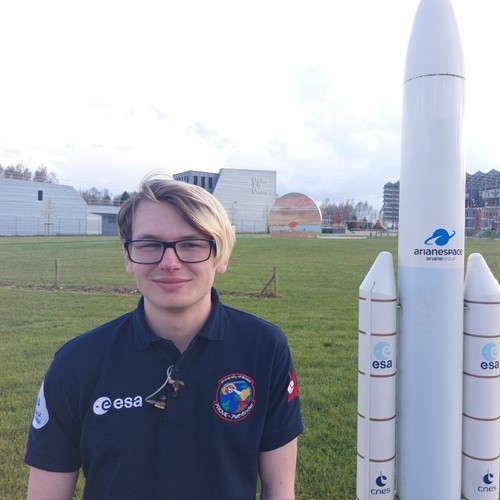
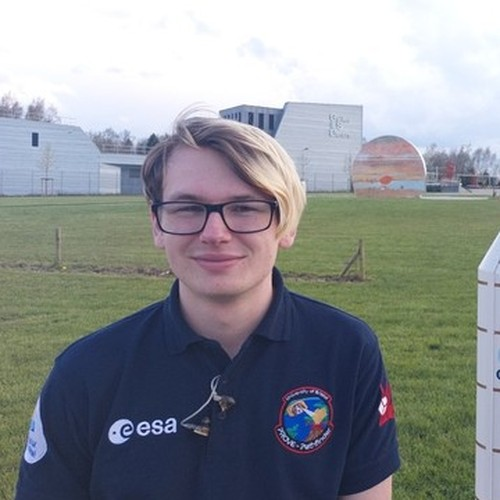
Fix the deck's background-image paths, redraw both diagrams, add room links
The real fault behind the missing images: Marp writes its own background
images as url(&quot;...&quot;), which the build's path rewrite did not match,
so the general-arrangement drawing and the servo diagram 404'd on the site.
The rewrite now handles escaped quotes.

Photo rows are CSS backgrounds with explicit heights rather than <img>, which
also renders reliably inside Marp's foreignObject.

- Real MazeMap share links, kept in teaching/rooms.md for other units; the
  Hangar is in the Queen's Building too, and 1.40 is the PLT
- Bench diagram redrawn: no overlapping labels, telemetry reaches the laptop,
  key clear of the caption
- Servo block diagram replaced with a cutaway: board, motor, gears, pot, horn
- S10 says avionics depends on integration rather than being only integration;
  S11 notes the list is not exhaustive; S13 points at SharePoint
- Getting ready page drops the same negative phrasing and gains the room table

diff --git a/slides/intro/index.md b/slides/intro/index.md
@@ -12,8 +12,9 @@ author: "Dr. Steve Bullock"
 <style>
 /* Five-across team row: square portraits, name, then roles. */
 .people { display: flex; gap: 1.1em; align-items: flex-start; margin-top: 0.4em; }
-.people p { flex: 1; text-align: center; font-size: 0.74em; line-height: 1.3; margin: 0; }
-.people img { width: 100%; aspect-ratio: 1 / 1; object-fit: cover; border-radius: 6px; margin-bottom: 0.3em; }
+.people > div { flex: 1; text-align: center; font-size: 0.74em; line-height: 1.3; }
+.people .pic { width: 100%; aspect-ratio: 1 / 1; background-size: cover; background-position: center;
+               border-radius: 6px; margin-bottom: 0.35em; }
 .people strong { display: block; }
 
 /* Compact table, for room lists and schedules that would otherwise overflow. */
@@ -22,10 +23,13 @@ author: "Dr. Steve Bullock"
 
 /* A row of photographs with captions underneath. */
 .shots { display: flex; gap: 0.9em; align-items: flex-start; }
-.shots p { flex: 1; margin: 0; text-align: center; font-size: 0.7em; line-height: 1.3; }
-.shots img { width: 100%; max-height: 300px; object-fit: cover; border-radius: 4px; margin-bottom: 0.25em; }
-.shots.small img { max-height: 170px; object-fit: contain; }
-.shots.small p { font-size: 0.64em; }
+.shots > div { flex: 1; text-align: center; font-size: 0.7em; line-height: 1.3; }
+.shots .pic { width: 100%; height: 270px; background-size: cover; background-position: center;
+              border-radius: 4px; margin-bottom: 0.3em; }
+.shots.small .pic { height: 165px; background-size: contain; background-repeat: no-repeat; }
+.shots.small > div { font-size: 0.64em; }
+.strip { display: flex; gap: 0.8em; margin-top: 0.6em; }
+.strip .pic { flex: 1; height: 190px; background-size: cover; background-position: center; border-radius: 4px; }
 
 /* Video: live embed on screen, a linked still in the PDF. */
 @media print { .only-html { display: none !important; } }
@@ -67,33 +71,42 @@ What it does in your aircraft · what the requirements ask for · integration ·
 **Part 2 — Mechanisms**
 What has to move · the design task · where it meets avionics · the sessions
 
+<div class="strip">
+<div class="pic" style="background-image:url('../../docs/assets/intro/tunnel-students.jpg')"></div>
+<div class="pic" style="background-image:url('../../docs/assets/intro/servos-installed.jpg')"></div>
+<div class="pic" style="background-image:url('../../docs/assets/intro/servo-micro.jpg')"></div>
+</div>
+
 ---
 
 # Who's who
 
 <div class="people">
-
-![](../../docs/assets/people/bullock.jpg)
-**Steve Bullock**
+<div>
+<div class="pic" style="background-image:url('../../docs/assets/people/bullock.jpg')"></div>
+<strong>Steve Bullock</strong>
+Avionics<br>Mechanisms
+</div>
+<div>
+<div class="pic" style="background-image:url('../../docs/assets/people/burns.jpg')"></div>
+<strong>George Burns</strong>
 Avionics
-Mechanisms
-
-![](../../docs/assets/people/burns.jpg)
-**George Burns**
+</div>
+<div>
+<div class="pic" style="background-image:url('../../docs/assets/people/ward.jpg')"></div>
+<strong>Tim Ward</strong>
 Avionics
-
-![](../../docs/assets/people/ward.jpg)
-**Tim Ward**
-Avionics
-
-![](../../docs/assets/people/graham.jpg)
-**Mark Graham**
+</div>
+<div>
+<div class="pic" style="background-image:url('../../docs/assets/people/graham.jpg')"></div>
+<strong>Mark Graham</strong>
 Mechanisms
-
-![](../../docs/assets/people/maes.jpg)
-**Vince Maes**
+</div>
+<div>
+<div class="pic" style="background-image:url('../../docs/assets/people/maes.jpg')"></div>
+<strong>Vince Maes</strong>
 Mechanisms
-
+</div>
 </div>
 
 <!--
@@ -113,20 +126,19 @@ Aerial Robotics project; mention him if useful.
 
 | Space | Room | What for |
 |---|---|---|
-| **Stack Room** | [QB F.05](https://use.mazemap.com/#v=1&config=UoBCampuses&view_access_token=fcab572c2d2a4e479089433ce060d24b&search=F.05) | Avionics workshops, Friday mornings |
-| **Avionics lab** | [QB M.003](https://use.mazemap.com/#v=1&config=UoBCampuses&view_access_token=fcab572c2d2a4e479089433ce060d24b&search=M.003) | Kit issue and return, supervised tool use |
-| **Design Suite** | [QB 1.59](https://use.mazemap.com/#v=1&config=UoBCampuses&view_access_token=fcab572c2d2a4e479089433ce060d24b&search=1.59) | Mechanisms sessions, Thursdays |
-| **The Hangar** | [L.080](https://use.mazemap.com/#v=1&config=UoBCampuses&view_access_token=fcab572c2d2a4e479089433ce060d24b&search=L.080) | Main lab, open access |
-| **This room** | [1.40 Pugsley](https://use.mazemap.com/#v=1&config=UoBCampuses&view_access_token=fcab572c2d2a4e479089433ce060d24b&search=1.40%20Pugsley) | Today |
+| **Stack Room** | [QB F.05](https://link.mazemap.com/gLLBFne1) | Avionics workshops, Friday mornings |
+| **Avionics lab** | [QB M.003](https://link.mazemap.com/uXsLo5fv) | Kit issue and return, supervised tool use |
+| **Design Suite** | [QB 1.59](https://link.mazemap.com/o5Xo8oWt) | Mechanisms sessions, Thursdays |
+| **The Hangar** | [QB L.080](https://link.mazemap.com/2QMWAiXk) | Main lab, open access |
+| **Here** | [PLT](https://link.mazemap.com/KkMVJJVS) | Pugsley Lecture Theatre |
 
 </div>
 
-Room numbers link to the map. All in the Queen's Building except the Hangar.
+Room numbers link to the map. All of these are in the Queen's Building.
 
 <!--
-Room links open a MazeMap search for that room number, using the campus
-collection link with its access token - the same link Steve uses, which finds
-rooms the public API does not.
+MazeMap share links, also kept in teaching/rooms.md so other units can reuse
+them. The Hangar (L.080) is in the Queen's Building too.
 -->
 
 ---
@@ -134,13 +146,8 @@ rooms the public API does not.
 # The model is only as good as what moves it
 
 <div class="shots">
-
-![](../../docs/assets/intro/tunnel-model.jpg)
-Last year's fuselage in the 7×5 tunnel
-
-![](../../docs/assets/intro/tunnel-students.jpg)
-Photos: Ross Dewar
-
+<div><div class="pic" style="background-image:url('../../docs/assets/intro/tunnel-model.jpg')"></div>Last year's fuselage in the 7×5 tunnel</div>
+<div><div class="pic" style="background-image:url('../../docs/assets/intro/tunnel-students.jpg')"></div>Photos: Ross Dewar</div>
 </div>
 
 * Your model has **control surfaces**, and something has to move them repeatably
@@ -242,7 +249,7 @@ leave too late.
 
 ---
 
-# Avionics is an integration job
+# Avionics depends on integration
 
 <div class="compact">
 
@@ -255,7 +262,8 @@ leave too late.
 
 </div>
 
-* This table is a **starting point, not the answer** — read the spec for your own remit, then **agree each interface** with the division on the other side
+* Avionics is not only an integration job, but it **depends on integration more than most**
+* This table is a **starting point, not the answer** — read the spec for your own remit, then **agree each interface** with the division opposite
 * Interfaces agreed late are the ones that fail
 
 ---
@@ -268,6 +276,7 @@ leave too late.
 * **Data**: what's logged, at what rate, in what units, and who uses it
 * **Command**: who moves which surface in the tunnel, and how you stop it
 * Most of these depend on **other teams' work that hasn't happened yet**. Start with a rough number — theirs, or your own gut — and **track what has to be firmed up, and by when**
+* **This list is not exhaustive.** Yours will be longer
 
 <!--
 Servo stall means the servo is driving against a stop or a jam and drawing its
@@ -280,11 +289,6 @@ wing stalling, and the double meaning catches people every year.
 # The system on the bench
 
 ![center h:480](../../docs/assets/intro/bench-system.svg)
-
-<!--
-TODO(Steve): a single system diagram would be better than two lists. The
-wiring photograph from the bench test would serve, once it exists.
--->
 
 ---
 
@@ -301,7 +305,7 @@ wiring photograph from the bench test would serve, once it exists.
 
 </div>
 
-No session in week 3 — Company Day. Check SharePoint for any changes.
+No session in week 3 — Company Day. Full schedule on SharePoint.
 
 ---
 
@@ -364,13 +368,8 @@ elevator and rudder, 5 for flap and aileron.
 # The design task
 
 <div class="shots">
-
-![](../../docs/assets/intro/four-bar.png)
-Crank, coupler, follower, ground
-
-![](../../docs/assets/intro/linkage-app.png)
-The same thing in the Linkage app
-
+<div><div class="pic" style="background-image:url('../../docs/assets/intro/four-bar.png')"></div>Crank, coupler, follower, ground</div>
+<div><div class="pic" style="background-image:url('../../docs/assets/intro/linkage-app.png')"></div>The same thing in the Linkage app</div>
 </div>
 
 <div class="columns">
@@ -392,16 +391,11 @@ The same thing in the Linkage app
 
 # Where mechanisms meets avionics
 
-![bg right:26% contain](../../docs/assets/intro/servo-interface.svg)
+![bg right:34% contain](../../docs/assets/intro/servo-cutaway.svg)
 
 <div class="shots small">
-
-![](../../docs/assets/intro/servo-micro.jpg)
-Blue micro servos — also HJ and Parallax standard servos
-
-![](../../docs/assets/intro/servo-tester.svg)
-Mechanisms prove the motion on a **servo tester** first
-
+<div><div class="pic" style="background-image:url('../../docs/assets/intro/servo-micro.jpg')"></div>Blue micro servos — also HJ and Parallax standard servos</div>
+<div><div class="pic" style="background-image:url('../../docs/assets/intro/servo-tester.svg')"></div>Mechanisms prove the motion on a <strong>servo tester</strong> first</div>
 </div>
 
 * **The boundary is the servo cable**
@@ -410,6 +404,10 @@ Mechanisms prove the motion on a **servo tester** first
 * **Sensor selection is joint**: readable as well as mountable
 
 <!--
+The cutaway: demand in on the signal wire, the pot measures the output angle,
+the board drives the motor until the two agree. The loop is inside the servo -
+which is why the cable, not the shaft, is where we draw the interface.
+
 Servo photo: Tower Pro SG90 by Suyash Dwivedi, Wikimedia Commons, CC BY-SA 4.0.
 No openly licensed photograph of an HJ or Parallax servo, or of a tester,
 exists - the tester is drawn. A lab photograph would be better than both.
@@ -428,16 +426,9 @@ agreed to draw the line. Every interface is a choice like that.
 # Learn from what broke last year
 
 <div class="shots">
-
-![](../../docs/assets/intro/avoid-glued.jpg)
-Actuator cable-tied **and glued** to the false rear spar
-
-![](../../docs/assets/intro/avoid-nowashers.jpg)
-Weak linkages, **no washers**, nothing to reduce friction
-
-![](../../docs/assets/intro/avoid-threadedrod.jpg)
-**Threaded rod** as a pivot, into an oversize hole and into the foam — and impossible to take apart
-
+<div><div class="pic" style="background-image:url('../../docs/assets/intro/avoid-glued.jpg')"></div>Actuator cable-tied <strong>and glued</strong> to the false rear spar</div>
+<div><div class="pic" style="background-image:url('../../docs/assets/intro/avoid-nowashers.jpg')"></div>Weak linkages, <strong>no washers</strong>, nothing to reduce friction</div>
+<div><div class="pic" style="background-image:url('../../docs/assets/intro/avoid-threadedrod.jpg')"></div><strong>Threaded rod</strong> as a pivot, into an oversize hole and into the foam</div>
 </div>
 
 * Start simple, prototype early, design for disassembly

diff --git a/docs/avionics/getting-ready.md b/docs/avionics/getting-ready.md
@@ -4,7 +4,7 @@ What to do before your first avionics workshop, so that the session is spent on 
 
 ## Bring a Windows laptop
 
-Mission Planner, the ground station software we use to set up the Cube, **runs on Windows**. There are no laptops to borrow, so each group needs at least one working Windows laptop of its own, brought charged to every workshop.
+Mission Planner, the ground station software we use to set up the Cube, **runs on Windows**. Each group needs at least one working Windows laptop of its own, brought charged to every workshop.
 
 Install it before the first workshop, and stop before the *Connecting* section: that part needs the kit.
 
@@ -24,3 +24,12 @@ Two pages of the step-by-step guide need no hardware, and you'll get through the
 ## At kit issue
 
 Kits are signed out to a named member of your group and returned at the end of the unit in reusable order. Check every item on the [kit list](kit-list.md) before you sign, and tell us straight away if anything is missing or damaged.
+
+## Where things happen
+
+| Space | Room | What for |
+|---|---|---|
+| Stack Room | [QB F.05](https://link.mazemap.com/gLLBFne1) | Avionics workshops |
+| Avionics lab | [QB M.003](https://link.mazemap.com/uXsLo5fv) | Kit issue and return, supervised tool use |
+| The Hangar | [QB L.080](https://link.mazemap.com/2QMWAiXk) | Main lab, open access |
+| Design Suite | [QB 1.59](https://link.mazemap.com/o5Xo8oWt) | Mechanisms sessions |

diff --git a/teaching/rooms.md b/teaching/rooms.md
@@ -1,0 +1,18 @@
+# Room links
+
+MazeMap share links for the rooms this unit uses, kept here so other units can
+reuse them rather than hunting for pins. These are the short `link.mazemap.com`
+form, which resolves to the right room without needing the campus-collection
+URL or an access token.
+
+| Room | What it is | Link |
+|---|---|---|
+| **QB F.05** | The Stack Room — avionics workshops | <https://link.mazemap.com/gLLBFne1> |
+| **QB M.003** | Avionics lab — kit issue and return, supervised tool use | <https://link.mazemap.com/uXsLo5fv> |
+| **QB L.080** | The Hangar — main lab, open access. Also in the Queen's Building | <https://link.mazemap.com/2QMWAiXk> |
+| **QB 1.59** | Design Suite — mechanisms sessions | <https://link.mazemap.com/o5Xo8oWt> |
+| **PLT** | Pugsley Lecture Theatre (1.40) | <https://link.mazemap.com/KkMVJJVS> |
+
+To get a link for another room: open [MazeMap](https://use.mazemap.com), find
+the room, and use its share button. The public search API does not index these
+rooms, so a link has to come from the app.
